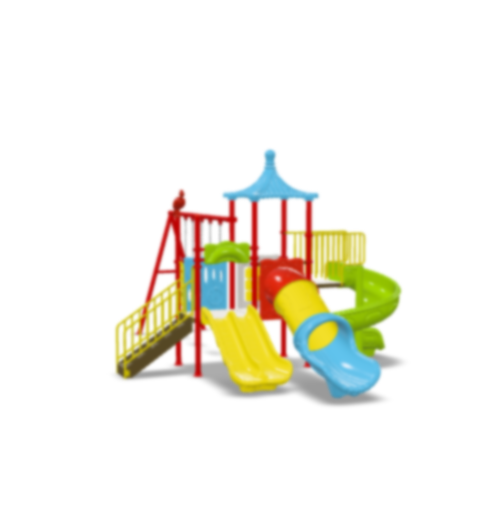
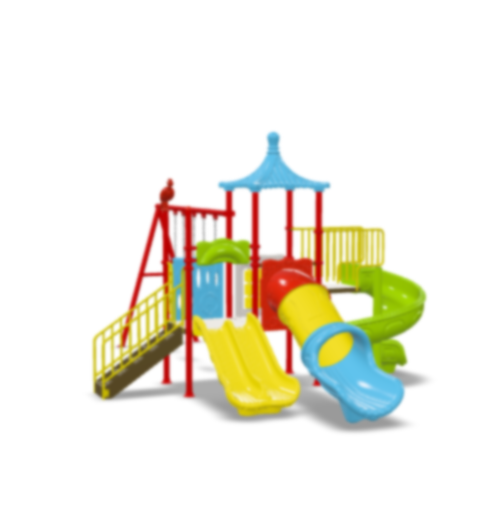
Poster update

Changed region(s): [[0.18, 0.25, 0.87, 0.8438]]

diff --git a/index.html b/index.html
@@ -77,7 +77,7 @@
             shadow-intensity="1"
             exposure="0.6"
             environment-image="neutral"
-            camera-orbit="--12deg 83.2deg 90%"
+            camera-orbit="337.18deg 85.36deg 90%"
             field-of-view="18deg"
           >
 
